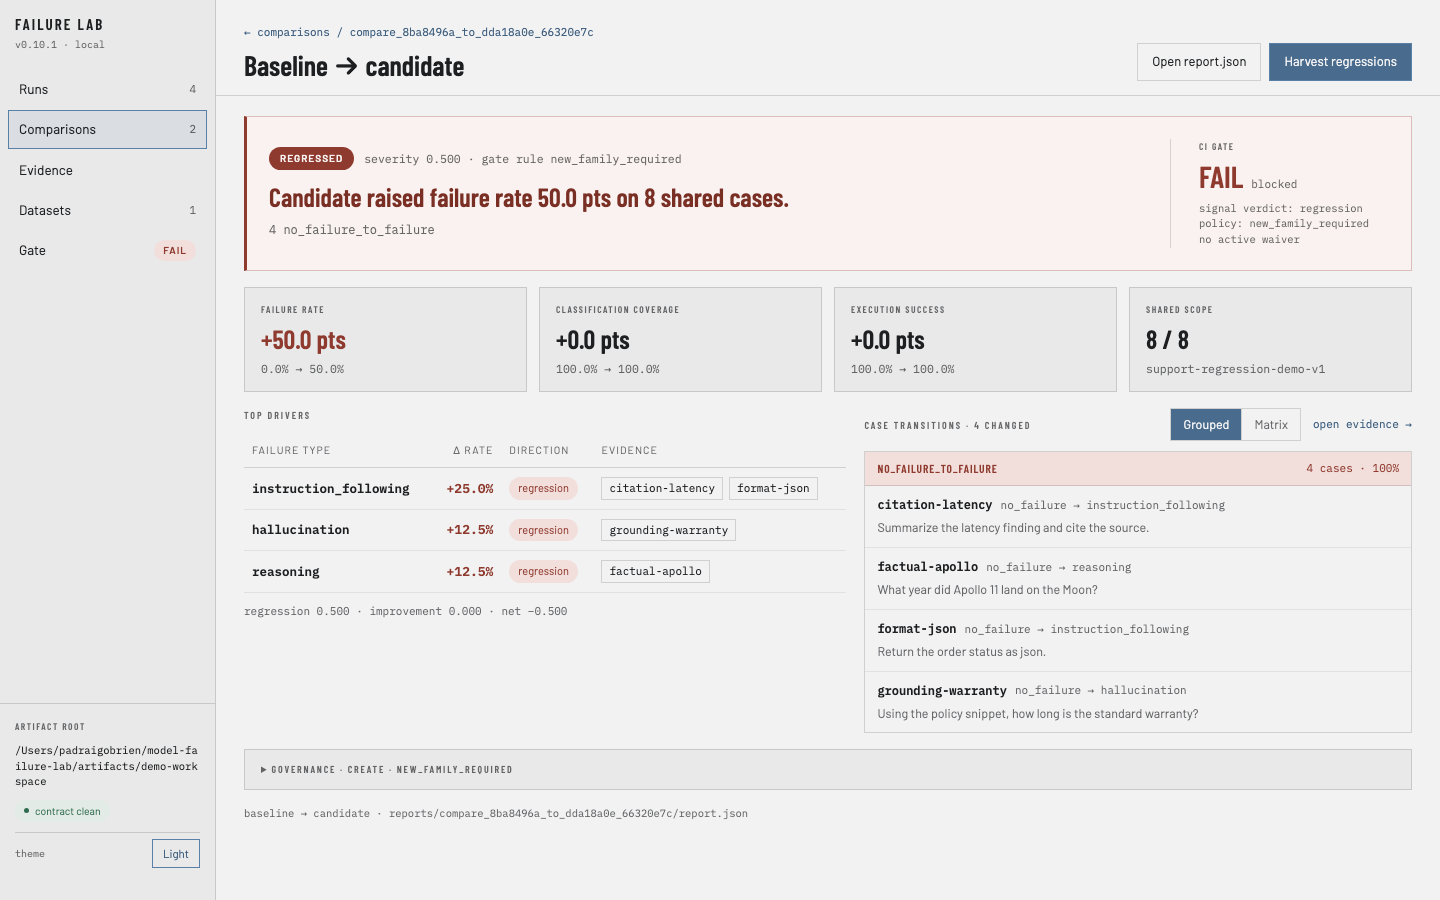
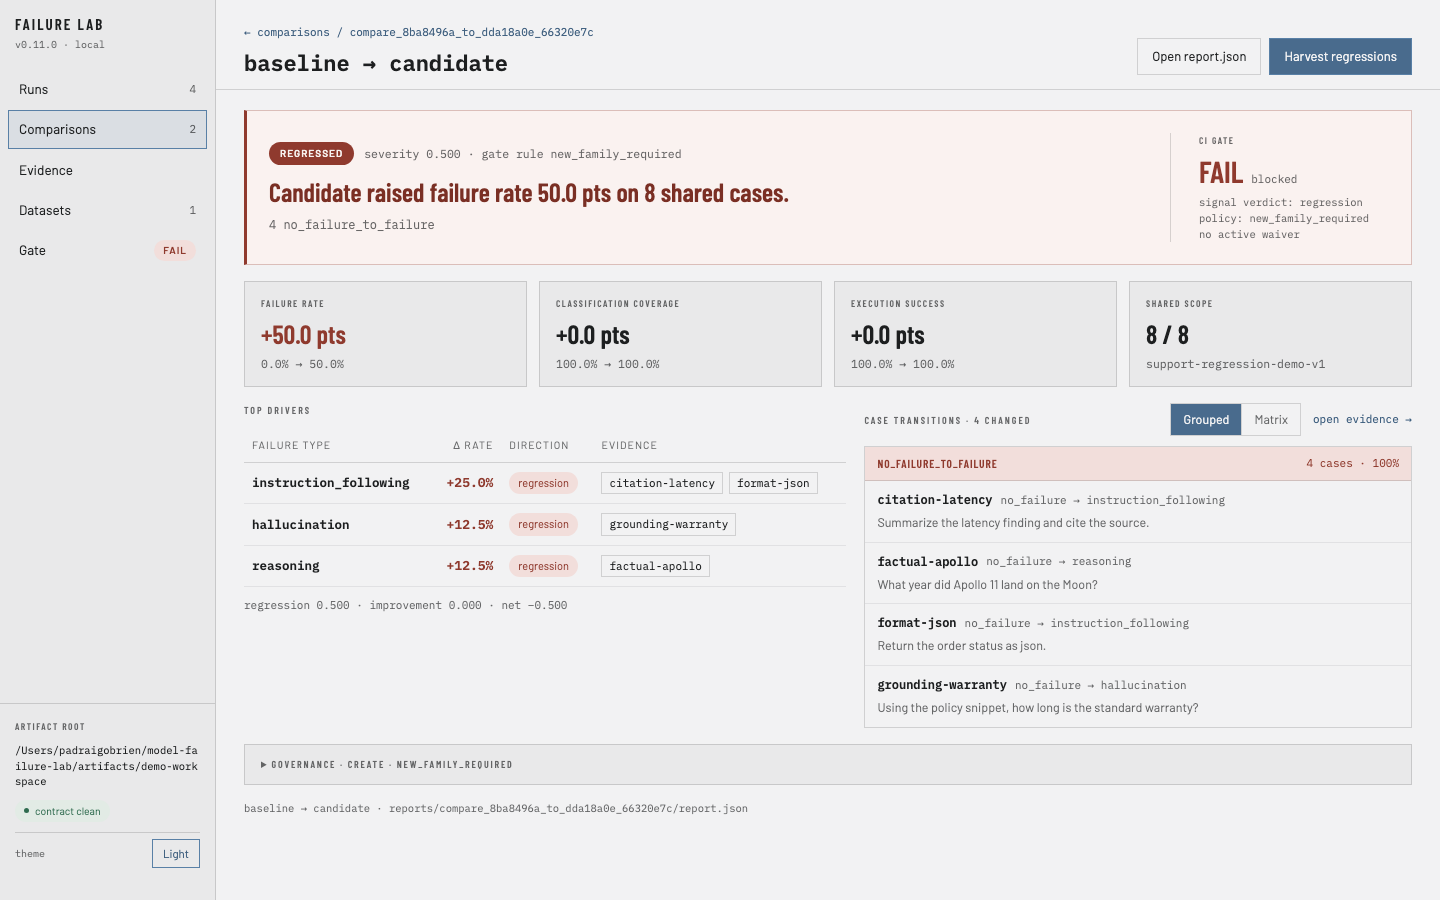
docs: recapture the screens, and argue the positioning on the real differentiator
The four screenshots were a version stale before this branch; the gate tile, the
comparison heading and the gate remedy all changed under them, so they now showed a UI
that no longer exists. Recaptured at 1440x900 against a real workspace, plus a
`gate-dark.png` — the console ships two committed themes and only ever showed one, and
this shot happens to be the clearest statement of the colour rule: a red block (a
regression) and an amber one (runs not comparable) on screen at the same time.

`docs/screens/README.md` also had a bullet stranded after its code block, and did not
list the file it described.

The README's comparison table sold "Local?" as a differentiator against promptfoo,
DeepEval and Ragas, which are all local. The column is gone, and the section now names
the thing that is actually unusual: the comparison refuses to score itself when the
comparison is unsound. That is what the three compatibility checks and the four
fail-closed gate conditions add up to, and it was buried under a column everyone ticks.
The limitations paragraph gains the classifier's real scope, since it is the first thing
a reader will hit.

diff --git a/README.md b/README.md
@@ -224,26 +224,36 @@ workspace's saved JSON artifacts:
 FAILURE_LAB_ARTIFACT_ROOT=/path/to/your/workspace npm --prefix frontend run dev
 ```
 
-More screenshots in [`docs/screens/`](docs/screens/).
+More screenshots — including the dark theme — in [`docs/screens/`](docs/screens/).
 
 ## How it compares
 
 There are excellent tools in this space; they solve overlapping but different problems. This table is
 meant to be factual, not a claim of superiority — pick what fits your workflow.
 
-| Tool | Primary strength | Hosted? | Local? | Main focus |
-|---|---|---|---|---|
-| **LangSmith** | Polished UI for tracing, datasets, and evals | Yes (SaaS) | No | Observability + evaluation platform |
-| **promptfoo** | Great DX for config-driven prompt evals & red-teaming | Optional | Yes | Prompt/LLM testing & security |
-| **DeepEval** | Pytest-style assertions with many model-graded metrics | Optional | Yes | LLM unit-testing & metrics |
-| **Ragas** | Research-backed RAG metrics (faithfulness, context recall…) | No | Yes | RAG evaluation metrics |
-| **Model Failure Lab** | Git-native baseline-vs-candidate regression tracking; turns regressions into permanent datasets | No | Yes | Regression detection & failure-to-test workflow |
+| Tool | Primary strength | Hosted? | Main focus |
+|---|---|---|---|
+| **LangSmith** | Polished UI for tracing, datasets, and evals | Yes (SaaS) | Observability + evaluation platform |
+| **promptfoo** | Great DX for config-driven prompt evals & red-teaming | Optional | Prompt/LLM testing & security |
+| **DeepEval** | Pytest-style assertions with many model-graded metrics | Optional | LLM unit-testing & metrics |
+| **Ragas** | Research-backed RAG metrics (faithfulness, context recall…) | No | RAG evaluation metrics |
+| **Model Failure Lab** | Git-native baseline-vs-candidate regression tracking; turns regressions into permanent datasets | No | Regression detection & failure-to-test workflow |
+
+Running locally is not a differentiator — promptfoo, DeepEval and Ragas all do. The thing that is
+actually unusual here is narrower, and it is the reason the tool exists:
+
+> **The comparison refuses to score itself when the comparison is unsound.** Different datasets, no
+> shared cases, or one prompt rewritten under a stable case id, and you get `incompatible` rather
+> than a number. A candidate that errors instead of answering, or that deletes the cases it broke,
+> fails the gate rather than passing it. A verdict you cannot trust is worse than no verdict, so the
+> tool declines to produce one.
 
 Honest limitations: Model Failure Lab is pre-1.0, ships fewer built-in metrics than DeepEval/Ragas,
-has no hosted UI, and is Python/CLI-only. If you want a managed dashboard (LangSmith), a large metric
+has no hosted UI, and is Python/CLI-only. Its bundled classifier is deterministic and narrow — four
+failure types, no model-graded scoring. If you want a managed dashboard (LangSmith), a large metric
 library (DeepEval), deep RAG metrics (Ragas), or red-teaming (promptfoo), reach for those. Reach for
-Model Failure Lab when you want **local, git-tracked, version-to-version regression history** and a
-loop that converts failures into durable tests.
+Model Failure Lab when you want **git-tracked, version-to-version regression history you can trust**
+and a loop that converts failures into durable tests.
 
 ## Advanced
 

diff --git a/docs/screens/README.md b/docs/screens/README.md
@@ -1,17 +1,21 @@
 # Screens
 
-Screenshots of the operator console (`frontend/`), captured against a real
-`failure-lab` workspace (the bundled regression demo plus a `demo` model run).
+Screenshots of the operator console (`frontend/`), captured at 1440×900 against a real
+`failure-lab` workspace — the bundled regression demo plus two `demo` model runs.
 
-- `comparison-detail.png` — baseline-vs-candidate comparison report: verdict,
-  failure-rate delta, governance recommendation, and matched dataset family.
-- `run-detail.png` — a saved run opened in the run detail view: failure rate,
-  coverage, and the staged investigation flow.
-- `runs-inventory.png` — the saved-runs inventory the UI opens on.
+| File | Screen |
+|---|---|
+| `runs-inventory.png` | The saved-runs inventory the console opens on: dataset filters, per-run metrics, two-run selection. |
+| `run-detail.png` | One saved run: failure rate, coverage, case lenses, and the per-case inspector. |
+| `comparison-detail.png` | Baseline vs candidate, verdict first: the CI-gate tile with its block reason, signed delta cards, top drivers with evidence chips, and grouped case transitions. |
+| `evidence.png` | Case evidence: baseline and candidate side by side with the classifier's "why it failed" note. |
+| `gate-dark.png` | The regression gate in the dark theme, showing a red block (a regression) and an amber one (runs not comparable) at once — red is reserved for regressions only (`frontend/DESIGN.md`). |
 
-To recapture: point the UI at a workspace and take 1440px-wide screenshots.
+To recapture, point the console at a workspace and take 1440px-wide shots:
 
 ```bash
 FAILURE_LAB_ARTIFACT_ROOT=/path/to/workspace npm --prefix frontend run dev
 ```
-- `evidence.png` — case evidence: baseline/candidate side-by-side with the classifier's "why it failed" note.
+
+The shell prints the package version, so a screenshot taken from a stale checkout shows it.
+Recapture at release time.
